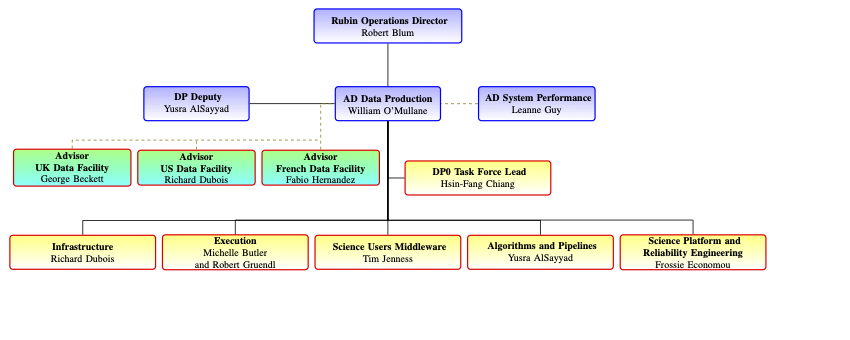
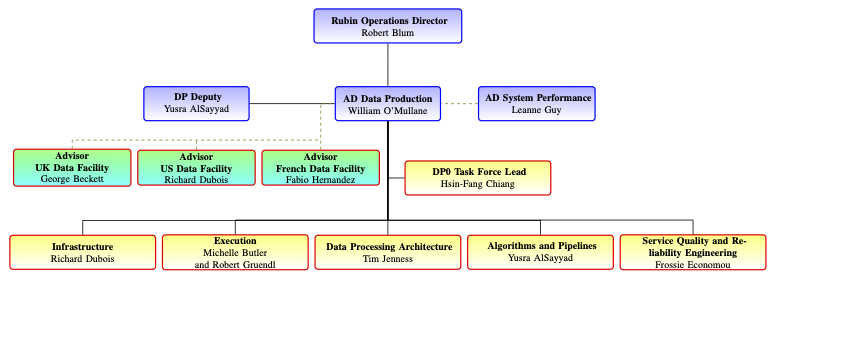
DpOrg update

Changed region(s): [[0.7341, 0.6765, 0.8871, 0.7647], [0.3671, 0.7059, 0.5506, 0.7353]]

diff --git a/DpOrg.tex b/DpOrg.tex
@@ -46,9 +46,9 @@ noheadfoot,marginparwidth=0pt,includemp=false ]{geometry}
 
 %
 	\node(tfl)[arcbox,below=2cm of spad.west]{\textbf{ DP0 Task Force Lead} \\Hsin-Fang Chiang } ;
-	\node(sumw)[arcbox,below=4cm of dpad]{\textbf{ Science Users Middleware} \\Tim Jenness} ;
+	\node(sumw)[arcbox,below=4cm of dpad]{\textbf{ Data Processing Architecture} \\Tim Jenness} ;
 	\node(alp)[arcbox,right=2mm of sumw]{\textbf{ Algorithms and Pipelines } \\Yusra AlSayyad} ;
-	\node(spare)[arcbox,right=2mm of alp]{\textbf{ Science Platform and Reliability Engineering } \\Frossie Economou} ;
+	\node(spare)[arcbox,right=2mm of alp]{\textbf{ Service Quality and Reliability Engineering } \\Frossie Economou} ;
 	\node(exec)[arcbox,left=2mm of sumw]{\textbf{Execution} \\ Michelle Butler and Robert Gruendl} ;
 	\node(infra)[arcbox,left=2mm of exec]{\textbf{Infrastructure} \\ Richard Dubois} ;
 %Lines ..
